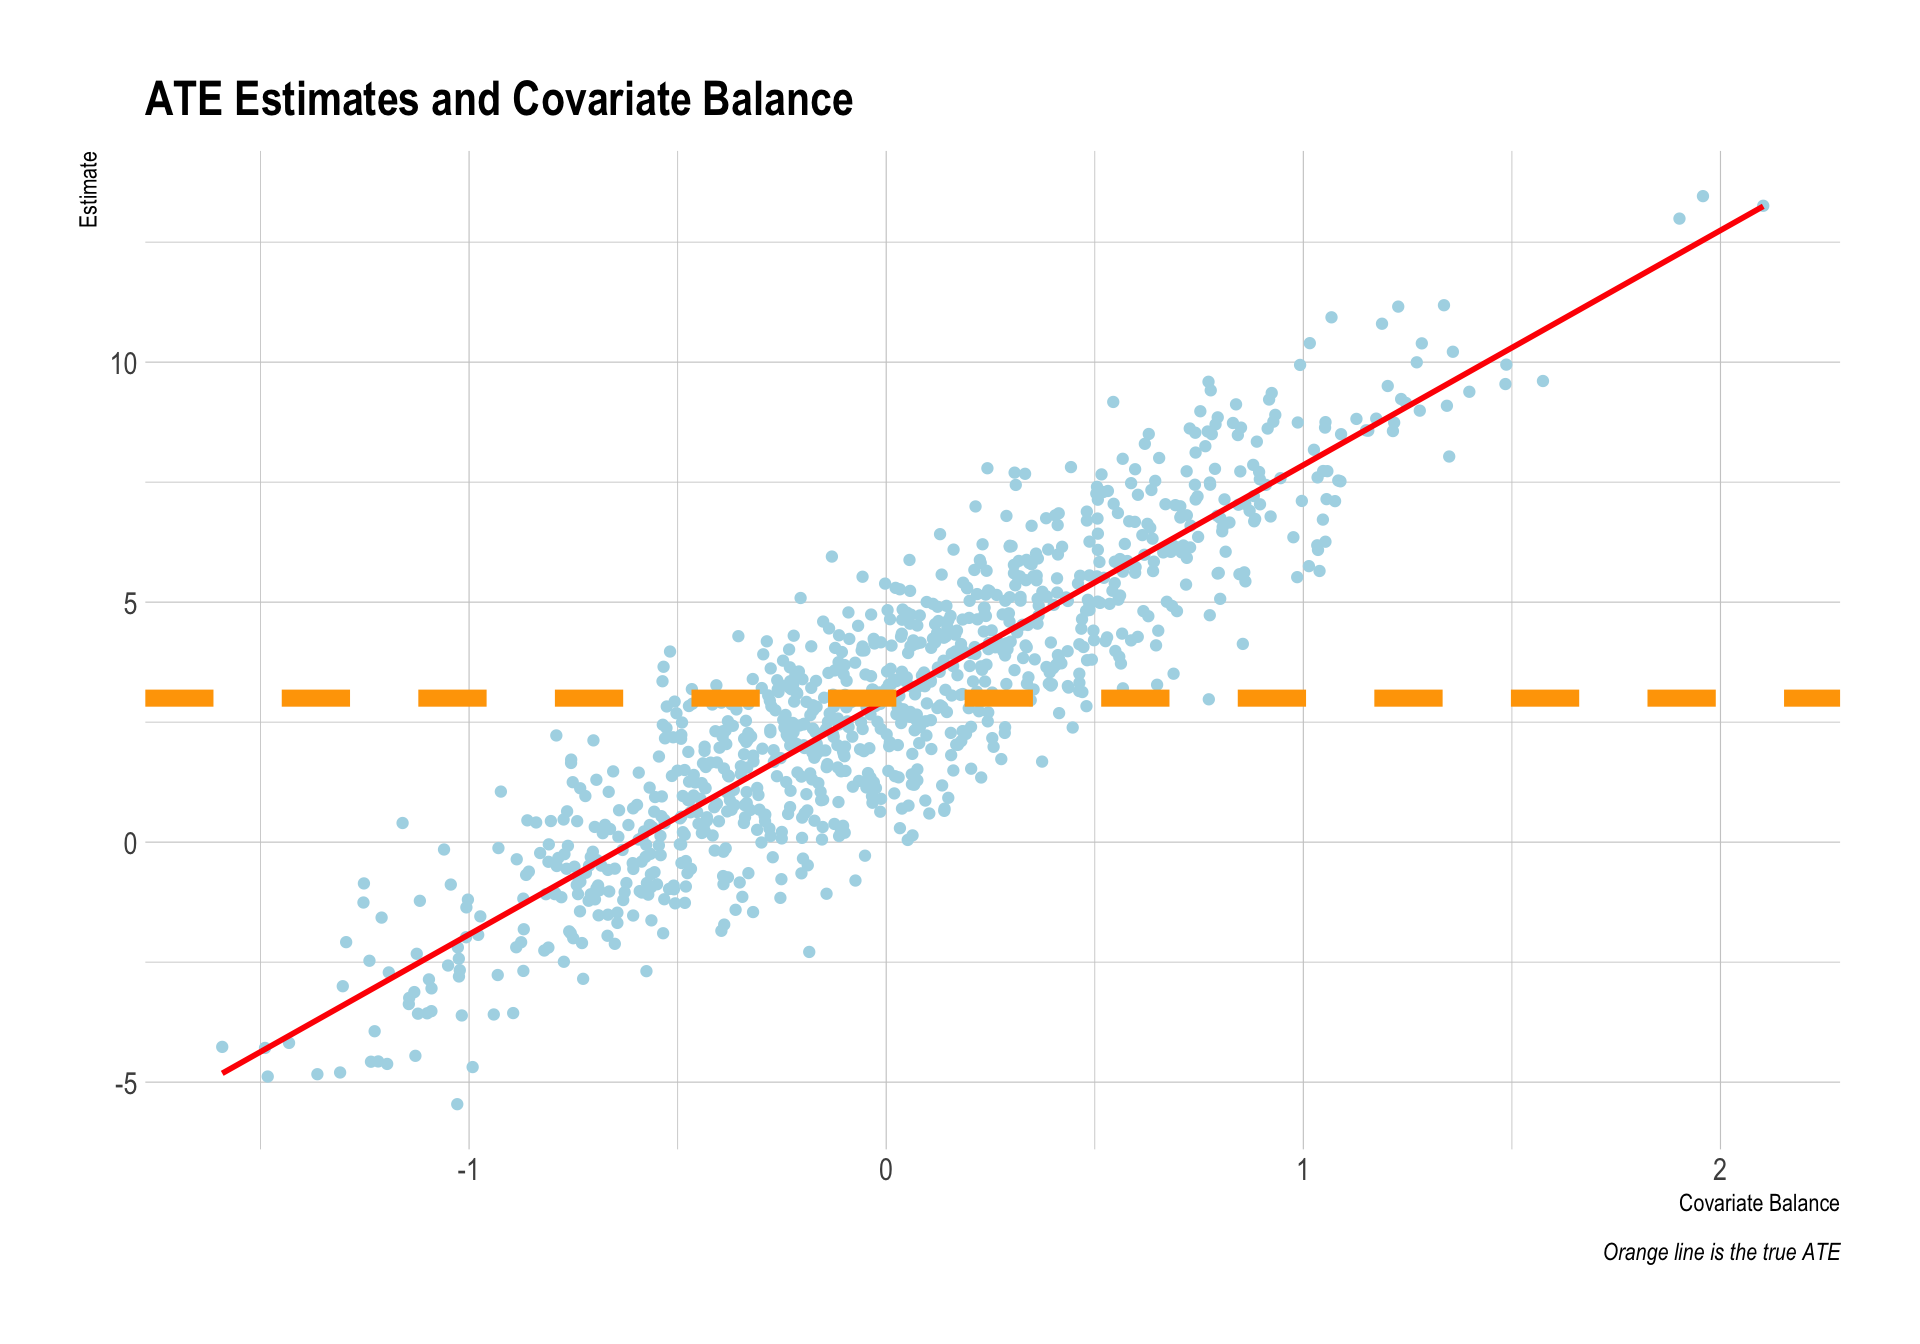
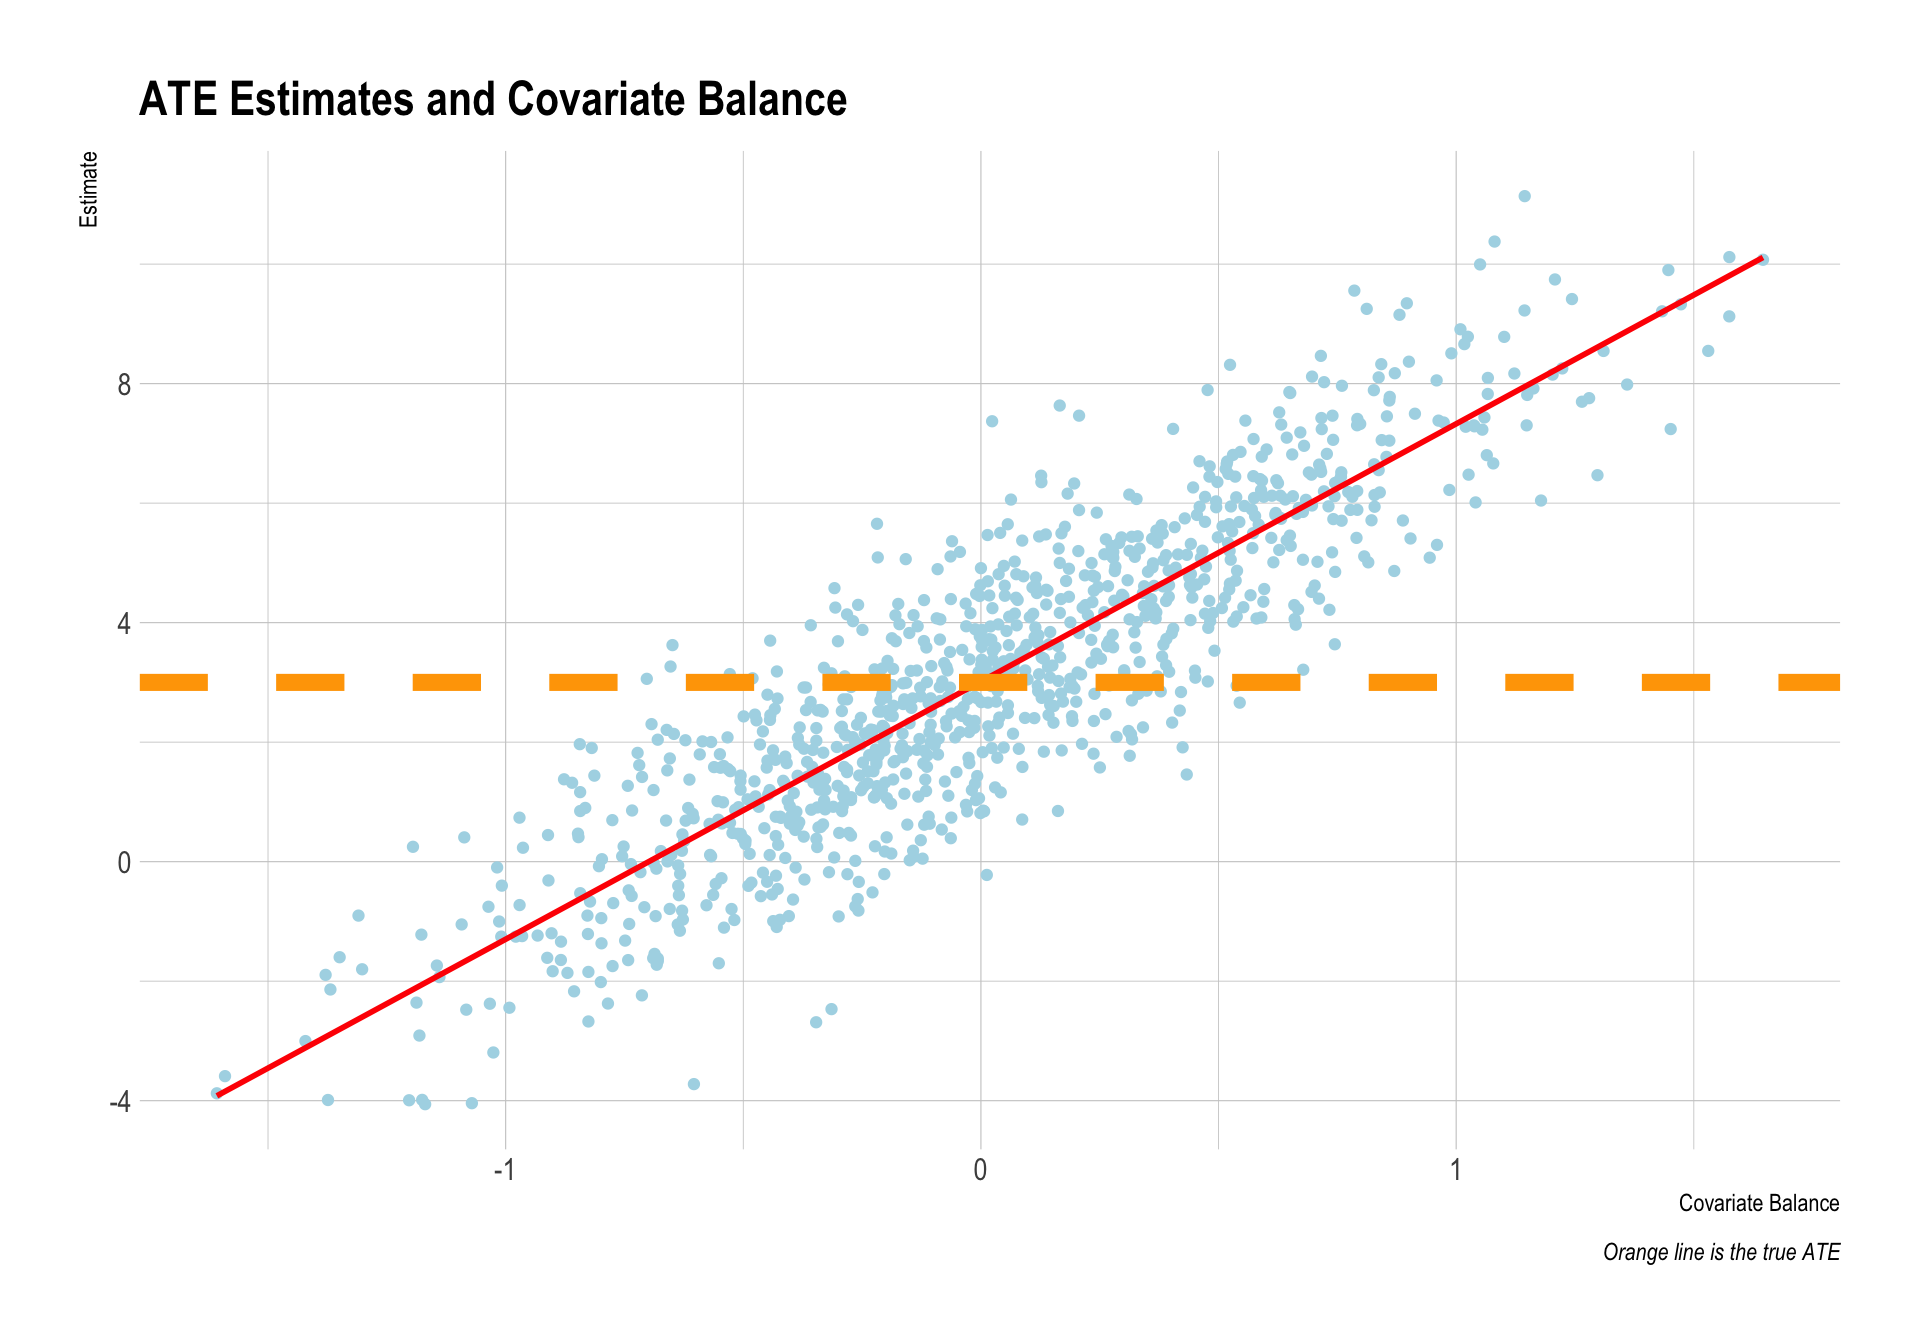
Built site for gh-pages

diff --git a/lectures/04-estimation_dplyr/estimation_dplyr.html b/lectures/04-estimation_dplyr/estimation_dplyr.html
@@ -554,7 +554,7 @@
   };
 
   // Store cell data
-  globalThis.qwebrCellDetails = [{"id":1,"options":{"label":"filter","comment":"","out-width":"700px","context":"interactive","fig-width":7,"message":"true","warning":"true","classes":"","results":"markup","fig-cap":"","dpi":72,"out-height":"","echo":"true","fig-height":5,"read-only":"false","autorun":"false","output":"true"},"code":"\nlibrary(gapminder)\n\ngapminder |> \n  filter(country == \"Brazil\")"},{"id":2,"options":{"classes":"","warning":"true","output":"true","label":"unnamed-chunk-2","comment":"","results":"markup","context":"interactive","autorun":"false","fig-cap":"","message":"true","fig-width":7,"read-only":"false","fig-height":5,"dpi":72,"out-width":"700px","out-height":""},"code":"\ngapminder |> \n  filter(country == \"Brazil\" & year == 2007)"},{"id":3,"options":{"classes":"","warning":"true","output":"true","label":"unnamed-chunk-3","comment":"","results":"markup","context":"interactive","autorun":"false","fig-cap":"","message":"true","fig-width":7,"read-only":"false","fig-height":5,"dpi":72,"out-width":"700px","out-height":""},"code":"\ngapminder |> \n  filter(country %in% c(\"Brazil\", \"Argentina\") & year == 2007)"},{"id":4,"options":{"classes":"","warning":"true","output":"true","label":"unnamed-chunk-4","comment":"","results":"markup","context":"interactive","autorun":"false","fig-cap":"","message":"true","fig-width":7,"read-only":"false","fig-height":5,"dpi":72,"out-width":"700px","out-height":""},"code":"\ngapminder |> \n  arrange(year, country)"},{"id":5,"options":{"classes":"","warning":"true","output":"true","label":"unnamed-chunk-5","comment":"","results":"markup","context":"interactive","autorun":"false","fig-cap":"","message":"true","fig-width":7,"read-only":"false","fig-height":5,"dpi":72,"out-width":"700px","out-height":""},"code":"\ngapminder |> \n  arrange(gdpPercap)"},{"id":6,"options":{"classes":"","warning":"true","output":"true","label":"unnamed-chunk-6","comment":"","results":"markup","context":"interactive","autorun":"false","fig-cap":"","message":"true","fig-width":7,"read-only":"false","fig-height":5,"dpi":72,"out-width":"700px","out-height":""},"code":"\ngapminder |> \n  arrange(desc(gdpPercap))"},{"id":7,"options":{"classes":"","warning":"true","output":"true","label":"unnamed-chunk-7","comment":"","results":"markup","context":"interactive","autorun":"false","fig-cap":"","message":"true","fig-width":7,"read-only":"false","fig-height":5,"dpi":72,"out-width":"700px","out-height":""},"code":"\ngapminder |> \n  select(country, year, gdpPercap)"},{"id":8,"options":{"classes":"","warning":"true","output":"true","label":"unnamed-chunk-8","comment":"","results":"markup","context":"interactive","autorun":"false","fig-cap":"","message":"true","fig-width":7,"read-only":"false","fig-height":5,"dpi":72,"out-width":"700px","out-height":""},"code":"\ngapminder |> \n  rename(population = pop)"},{"id":9,"options":{"classes":"","warning":"true","output":"true","label":"unnamed-chunk-9","comment":"","results":"markup","context":"interactive","autorun":"false","fig-cap":"","message":"true","fig-width":7,"read-only":"false","fig-height":5,"dpi":72,"out-width":"700px","out-height":""},"code":"\ngapminder |> \n  mutate(gdp = gdpPercap * pop)"},{"id":10,"options":{"classes":"","warning":"true","output":"true","label":"unnamed-chunk-10","comment":"","results":"markup","context":"interactive","autorun":"false","fig-cap":"","message":"true","fig-width":7,"read-only":"false","fig-height":5,"dpi":72,"out-width":"700px","out-height":""},"code":"\ngapminder |> \n  mutate(high_gdp = ifelse(gdpPercap > 10000, \"High\", \"Low\"))\n"},{"id":11,"options":{"classes":"","warning":"true","output":"true","label":"unnamed-chunk-11","comment":"","results":"markup","context":"interactive","autorun":"false","fig-cap":"","message":"true","fig-width":7,"read-only":"false","fig-height":5,"dpi":72,"out-width":"700px","out-height":""},"code":"\ngapminder |> \n  group_by(country) "},{"id":12,"options":{"classes":"","warning":"true","output":"true","label":"unnamed-chunk-12","comment":"","results":"markup","context":"interactive","autorun":"false","fig-cap":"","message":"true","fig-width":7,"read-only":"false","fig-height":5,"dpi":72,"out-width":"700px","out-height":""},"code":"\ngapminder |>\n  filter(year == 2007) |>\n  group_by(continent) |>\n  summarize(mean_gdp = mean(gdpPercap),\n            total_pop = sum(pop))"},{"id":13,"options":{"classes":"","warning":"true","output":"true","label":"unnamed-chunk-13","comment":"","results":"markup","context":"interactive","autorun":"false","fig-cap":"","message":"true","fig-width":7,"read-only":"false","fig-height":5,"dpi":72,"out-width":"700px","out-height":""},"code":"\ngapminder |>\n  filter(year == 2007) |>\n  group_by(continent) |>\n  mutate(rank = rank(desc(gdpPercap)))"}];
+  globalThis.qwebrCellDetails = [{"code":"\nlibrary(gapminder)\n\ngapminder |> \n  filter(country == \"Brazil\")","options":{"out-height":"","warning":"true","fig-height":5,"classes":"","comment":"","dpi":72,"output":"true","fig-width":7,"message":"true","label":"filter","echo":"true","results":"markup","autorun":"false","context":"interactive","out-width":"700px","fig-cap":"","read-only":"false"},"id":1},{"code":"\ngapminder |> \n  filter(country == \"Brazil\" & year == 2007)","options":{"label":"unnamed-chunk-2","out-height":"","output":"true","dpi":72,"fig-width":7,"comment":"","fig-height":5,"message":"true","read-only":"false","context":"interactive","results":"markup","classes":"","autorun":"false","out-width":"700px","fig-cap":"","warning":"true"},"id":2},{"code":"\ngapminder |> \n  filter(country %in% c(\"Brazil\", \"Argentina\") & year == 2007)","options":{"label":"unnamed-chunk-3","out-height":"","output":"true","dpi":72,"fig-width":7,"comment":"","fig-height":5,"message":"true","read-only":"false","context":"interactive","results":"markup","classes":"","autorun":"false","out-width":"700px","fig-cap":"","warning":"true"},"id":3},{"code":"\ngapminder |> \n  arrange(year, country)","options":{"label":"unnamed-chunk-4","out-height":"","output":"true","dpi":72,"fig-width":7,"comment":"","fig-height":5,"message":"true","read-only":"false","context":"interactive","results":"markup","classes":"","autorun":"false","out-width":"700px","fig-cap":"","warning":"true"},"id":4},{"code":"\ngapminder |> \n  arrange(gdpPercap)","options":{"label":"unnamed-chunk-5","out-height":"","output":"true","dpi":72,"fig-width":7,"comment":"","fig-height":5,"message":"true","read-only":"false","context":"interactive","results":"markup","classes":"","autorun":"false","out-width":"700px","fig-cap":"","warning":"true"},"id":5},{"code":"\ngapminder |> \n  arrange(desc(gdpPercap))","options":{"label":"unnamed-chunk-6","out-height":"","output":"true","dpi":72,"fig-width":7,"comment":"","fig-height":5,"message":"true","read-only":"false","context":"interactive","results":"markup","classes":"","autorun":"false","out-width":"700px","fig-cap":"","warning":"true"},"id":6},{"code":"\ngapminder |> \n  select(country, year, gdpPercap)","options":{"label":"unnamed-chunk-7","out-height":"","output":"true","dpi":72,"fig-width":7,"comment":"","fig-height":5,"message":"true","read-only":"false","context":"interactive","results":"markup","classes":"","autorun":"false","out-width":"700px","fig-cap":"","warning":"true"},"id":7},{"code":"\ngapminder |> \n  rename(population = pop)","options":{"label":"unnamed-chunk-8","out-height":"","output":"true","dpi":72,"fig-width":7,"comment":"","fig-height":5,"message":"true","read-only":"false","context":"interactive","results":"markup","classes":"","autorun":"false","out-width":"700px","fig-cap":"","warning":"true"},"id":8},{"code":"\ngapminder |> \n  mutate(gdp = gdpPercap * pop)","options":{"label":"unnamed-chunk-9","out-height":"","output":"true","dpi":72,"fig-width":7,"comment":"","fig-height":5,"message":"true","read-only":"false","context":"interactive","results":"markup","classes":"","autorun":"false","out-width":"700px","fig-cap":"","warning":"true"},"id":9},{"code":"\ngapminder |> \n  mutate(high_gdp = ifelse(gdpPercap > 10000, \"High\", \"Low\"))\n","options":{"label":"unnamed-chunk-10","out-height":"","output":"true","dpi":72,"fig-width":7,"comment":"","fig-height":5,"message":"true","read-only":"false","context":"interactive","results":"markup","classes":"","autorun":"false","out-width":"700px","fig-cap":"","warning":"true"},"id":10},{"code":"\ngapminder |> \n  group_by(country) ","options":{"label":"unnamed-chunk-11","out-height":"","output":"true","dpi":72,"fig-width":7,"comment":"","fig-height":5,"message":"true","read-only":"false","context":"interactive","results":"markup","classes":"","autorun":"false","out-width":"700px","fig-cap":"","warning":"true"},"id":11},{"code":"\ngapminder |>\n  filter(year == 2007) |>\n  group_by(continent) |>\n  summarize(mean_gdp = mean(gdpPercap),\n            total_pop = sum(pop))","options":{"label":"unnamed-chunk-12","out-height":"","output":"true","dpi":72,"fig-width":7,"comment":"","fig-height":5,"message":"true","read-only":"false","context":"interactive","results":"markup","classes":"","autorun":"false","out-width":"700px","fig-cap":"","warning":"true"},"id":12},{"code":"\ngapminder |>\n  filter(year == 2007) |>\n  group_by(continent) |>\n  mutate(rank = rank(desc(gdpPercap)))","options":{"label":"unnamed-chunk-13","out-height":"","output":"true","dpi":72,"fig-width":7,"comment":"","fig-height":5,"message":"true","read-only":"false","context":"interactive","results":"markup","classes":"","autorun":"false","out-width":"700px","fig-cap":"","warning":"true"},"id":13}];
 
   </script>
   <script type="module">
@@ -1490,14 +1490,14 @@ F. Daniel Hidalgo
 <span id="cb1-9"><a></a><span class="fu">head</span>(po)</span></code><button title="Copy to Clipboard" class="code-copy-button"><i class="bi"></i></button></pre></div>
 <div class="cell-output cell-output-stdout">
 <pre><code># A tibble: 6 × 3
-       X    Y0    Y1
-   &lt;dbl&gt; &lt;dbl&gt; &lt;dbl&gt;
-1  5.54  32.2  35.2 
-2  2.24  21.2  24.2 
-3 -0.375  4.27  7.27
-4 -0.451 11.2  14.2 
-5  3.03  15.7  18.7 
-6  1.60  19.4  22.4 </code></pre>
+      X    Y0    Y1
+  &lt;dbl&gt; &lt;dbl&gt; &lt;dbl&gt;
+1 2.09   21.8  24.8
+2 4.47   30.2  33.2
+3 3.85   23.9  26.9
+4 1.79   21.7  24.7
+5 0.932  17.3  20.3
+6 2.75   17.4  20.4</code></pre>
 </div>
 </div>
 </div><div class="column fragment" style="width:50%;">
@@ -1537,7 +1537,7 @@ F. Daniel Hidalgo
 <span id="cb4-6"><a></a></span>
 <span id="cb4-7"><a></a>est_ate</span></code><button title="Copy to Clipboard" class="code-copy-button"><i class="bi"></i></button></pre></div>
 <div class="cell-output cell-output-stdout">
-<pre><code>[1] 0.9883974</code></pre>
+<pre><code>[1] 5.78439</code></pre>
 </div>
 </div>
 <div class="cell">
@@ -1572,7 +1572,7 @@ F. Daniel Hidalgo
 <span id="cb7-8"><a></a>another_draw <span class="ot">&lt;-</span> <span class="fu">estim_ate</span>(po)</span>
 <span id="cb7-9"><a></a>another_draw</span></code><button title="Copy to Clipboard" class="code-copy-button"><i class="bi"></i></button></pre></div>
 <div class="cell-output cell-output-stdout">
-<pre><code>[1] 2.086027</code></pre>
+<pre><code>[1] 3.674837</code></pre>
 </div>
 </div>
 <div class="cell">
@@ -1622,15 +1622,17 @@ F. Daniel Hidalgo
 <div class="cell">
 <div class="sourceCode cell-code" id="cb12"><pre class="sourceCode numberSource r number-lines code-with-copy"><code class="sourceCode r"><span id="cb12-1"><a></a><span class="fu">mean</span>(estimates)</span></code><button title="Copy to Clipboard" class="code-copy-button"><i class="bi"></i></button></pre></div>
 <div class="cell-output cell-output-stdout">
-<pre><code>[1] 3.008488</code></pre>
+<pre><code>[1] 2.829947</code></pre>
 </div>
 </div>
 </div>
 </section>
 <section id="expectations" class="slide level2">
 <h2>Expectations</h2>
-<p>The <span class="alert"><strong>expectation</strong></span> of a discrete random variable <span class="math inline">\(Y\)</span> is given by: <span class="math display">\[E[Y] = \sum y \Pr[Y=y]\]</span> . . .</p>
+<p>The <span class="alert"><strong>expectation</strong></span> of a discrete random variable <span class="math inline">\(Y\)</span> is given by: <span class="math display">\[E[Y] = \sum y \Pr[Y=y]\]</span></p>
+<div class="fragment">
 <p>The <span class="alert"><strong>conditional expectation</strong></span> of <span class="math inline">\(Y\)</span> given <span class="math inline">\(X\)</span> is given by: <span class="math display">\[E[Y|X] = \sum y \Pr[Y=y|X=x] \]</span></p>
+</div>
 </section>
 <section id="estimand" class="slide level2">
 <h2>Estimand</h2>
